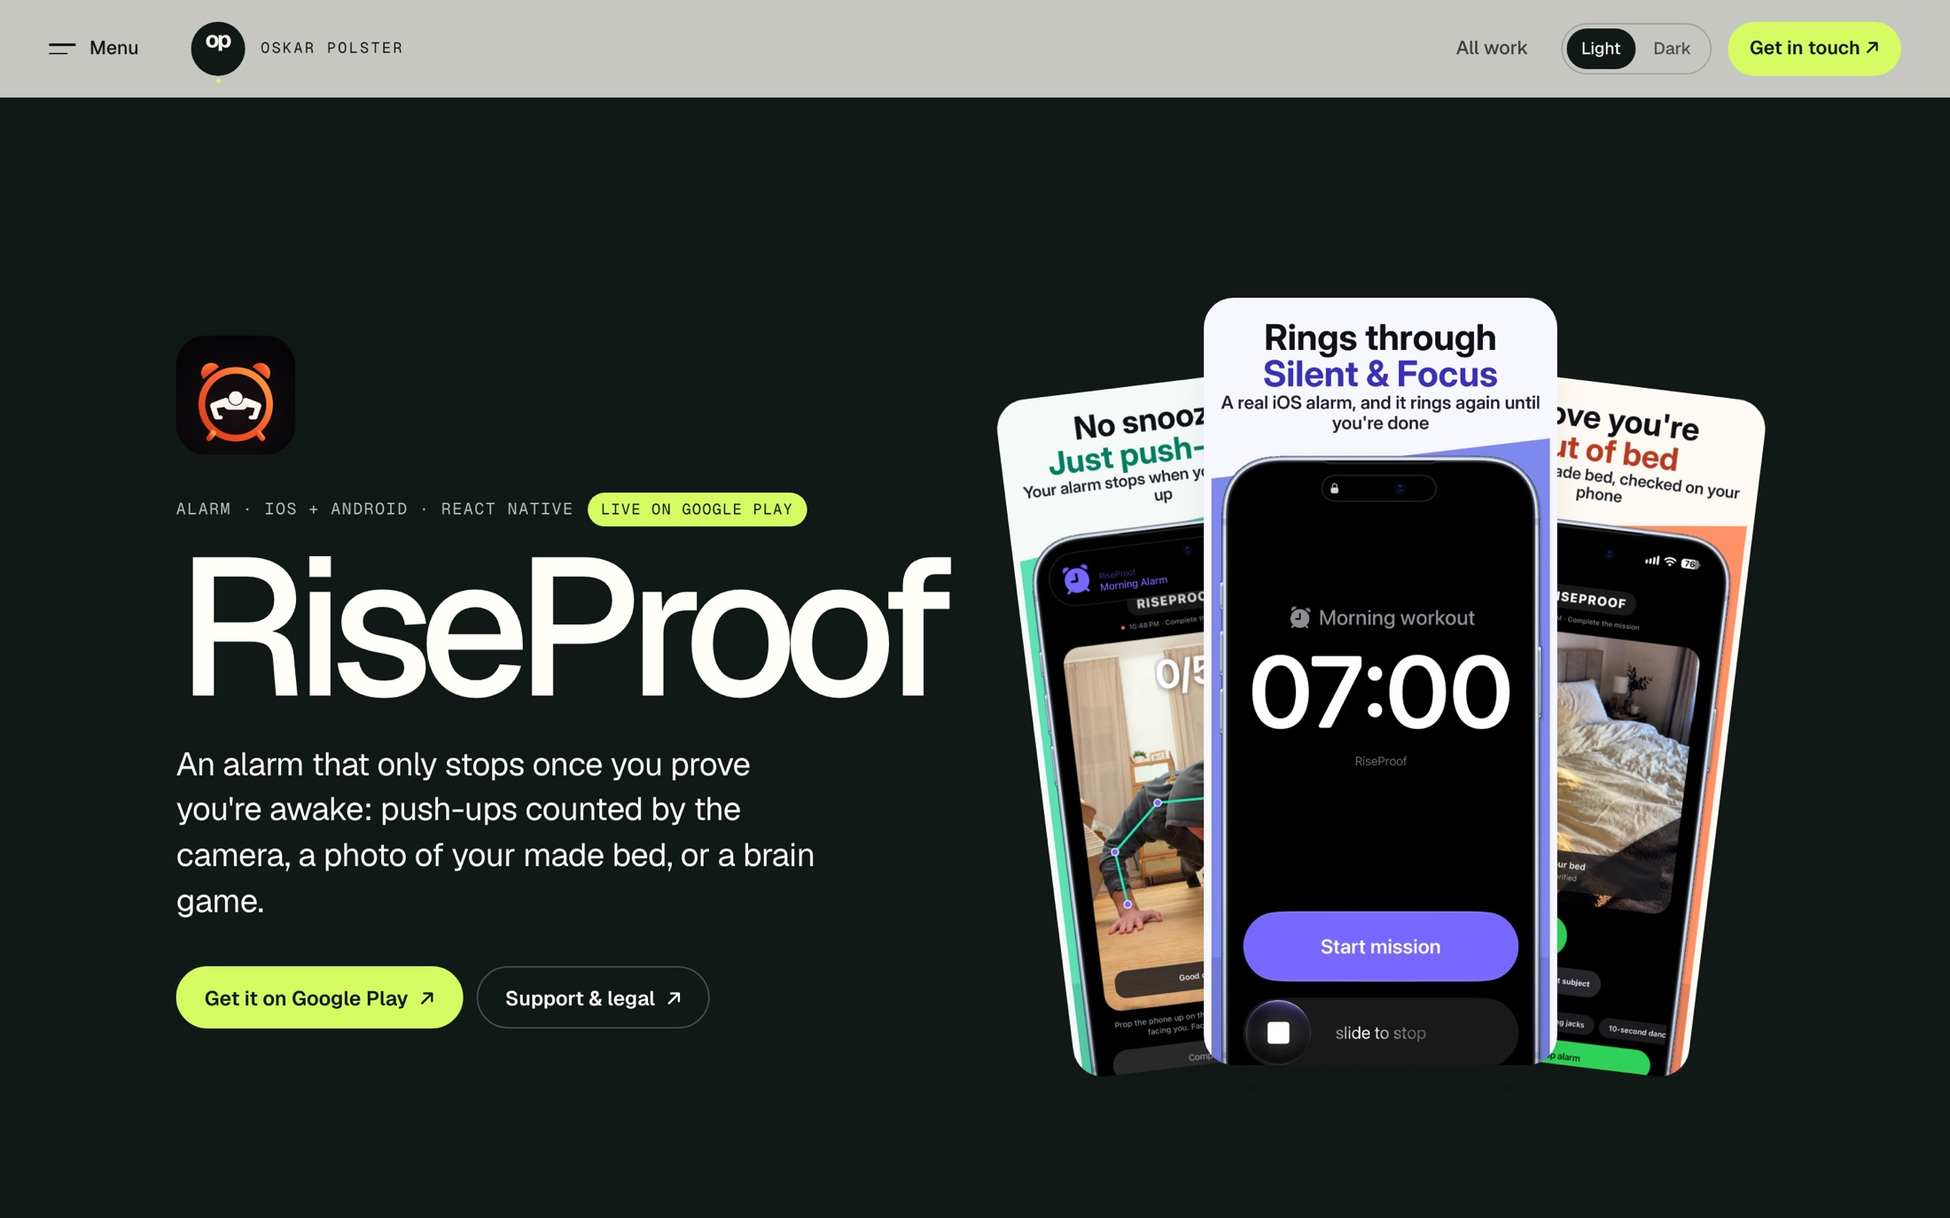
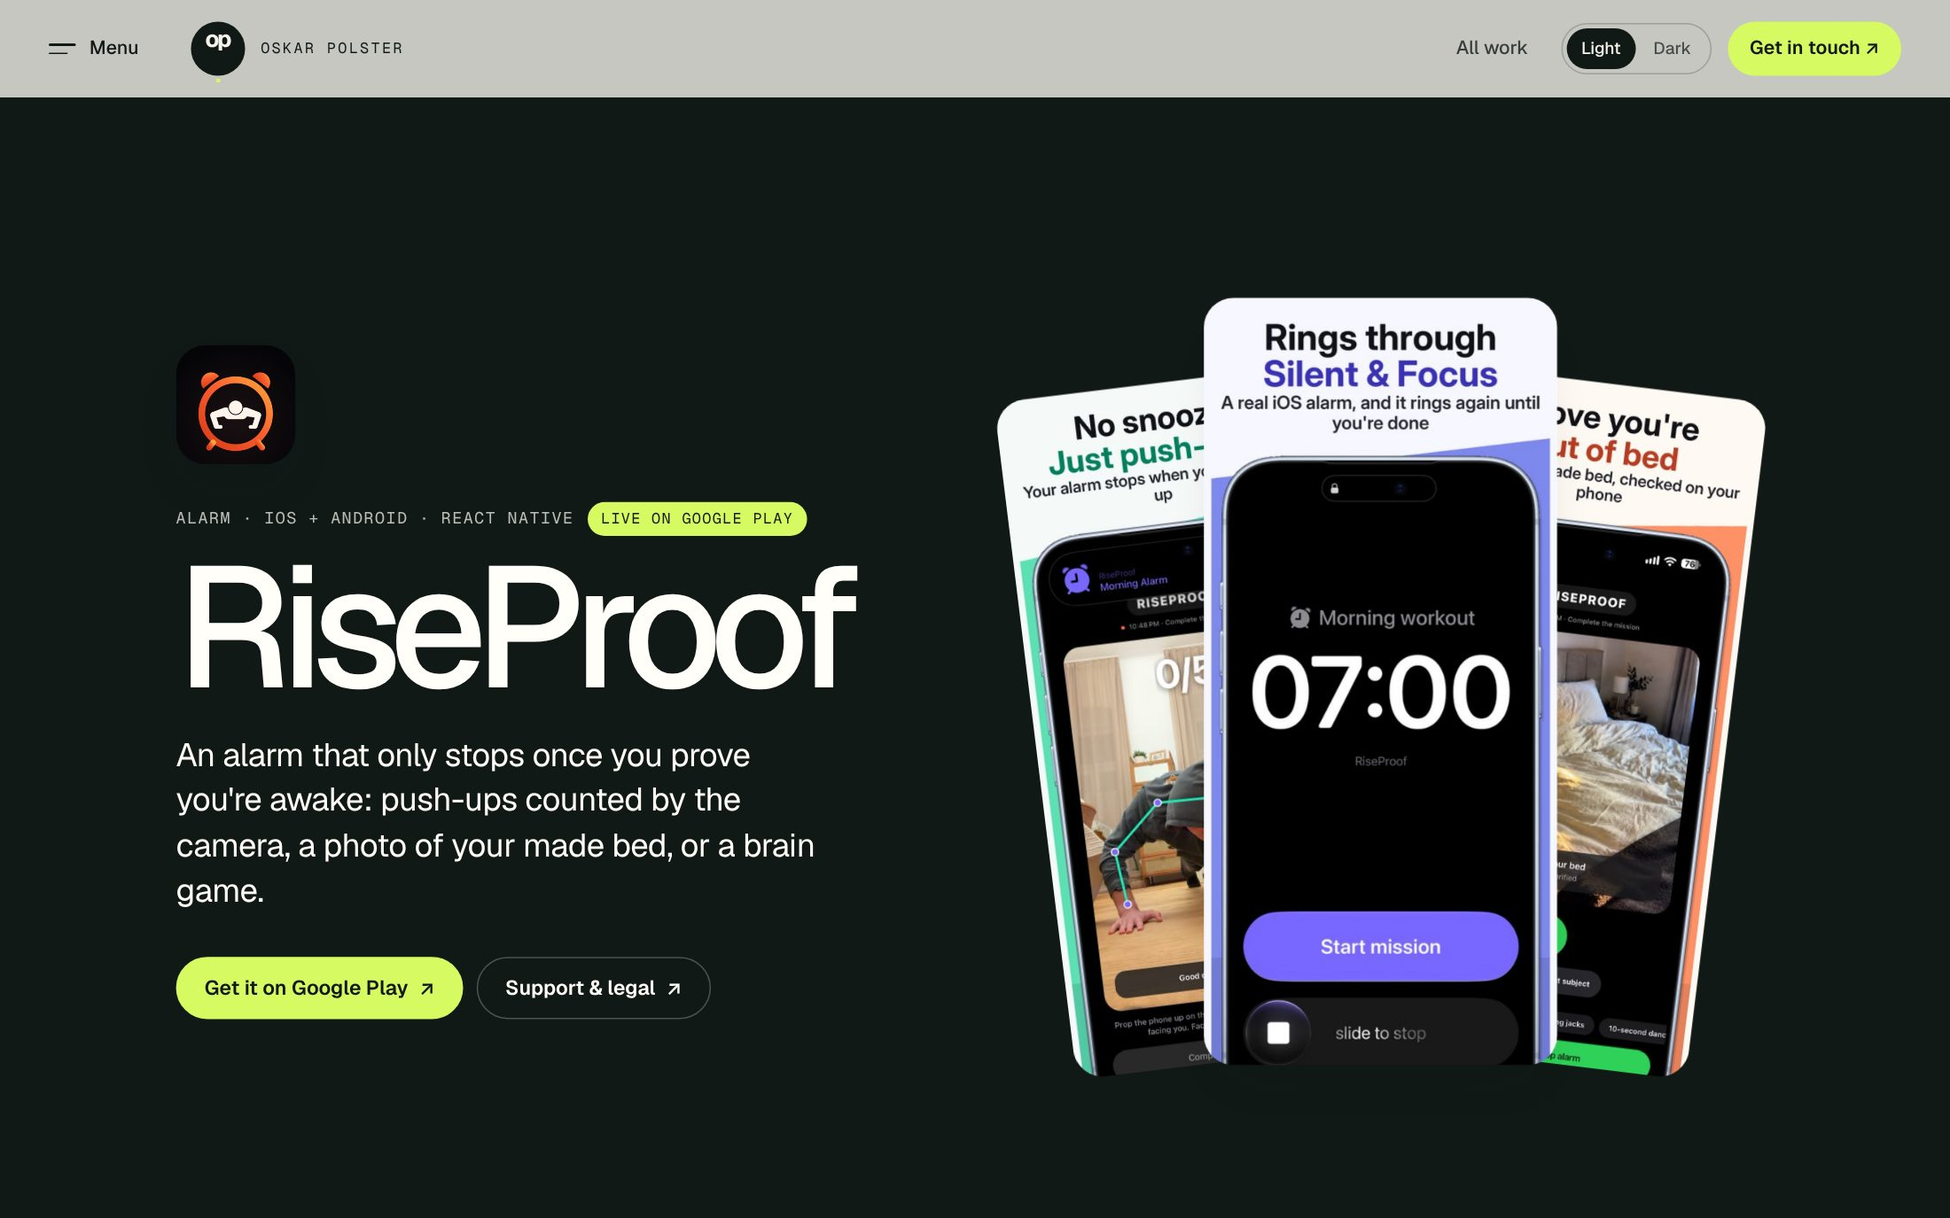
Portfolio review fixes: theme images, long titles, contact copy, links
- Light/Dark images: `.pf img` and `.ar-img` (display: block) outranked
  `.pf-dark-only`, so in light mode the dark screenshots loaded too and
  showed on top or underneath (Stub big panel, AppReleaser "More views",
  every AppReleaser step on phones, the page previews on the main page)
- "Video Background" and "RiseProof" no longer run under the phones in
  the product hero (font size capped by the text column); the page
  previews for both are re-rendered from the fixed pages
- Product pages: contact says "Hiring, or working on a mobile app?" and
  "Open to a full-time role or freelance work", as on the main page,
  with a GitHub link next to the email
- Footer "All projects" pointed to /#projects, which does not exist;
  now /#apps (main page and Impressum)

Claude-Session: https://claude.ai/code/session_01X9fD3tWDHSxZ5SvA4QzrYH

diff --git a/developer/riseproof/index.html b/developer/riseproof/index.html
@@ -9,8 +9,8 @@
   <link rel="preconnect" href="https://fonts.gstatic.com" crossorigin>
   <link href="https://fonts.googleapis.com/css2?family=Geist:wght@300..700&family=Geist+Mono:wght@400;500&family=Newsreader:ital,opsz,wght@1,6..72,300..500&display=swap" rel="stylesheet">
   <link rel="stylesheet" href="/styles.css">
-  <link rel="stylesheet" href="/developer/portfolio.css?v=19">
-  <link rel="stylesheet" href="/developer/product.css?v=19">
+  <link rel="stylesheet" href="/developer/portfolio.css?v=20">
+  <link rel="stylesheet" href="/developer/product.css?v=20">
   <script>(function(){var t=null;try{t=localStorage.getItem('pf-theme')}catch(e){}var q=location.search.match(/theme=(light|dark)/);if(q)t=q[1];if(t==='light'||t==='dark')document.documentElement.dataset.theme=t;})();</script>
   <script data-goatcounter="https://oskarpolster.goatcounter.com/count" async src="https://gc.zgo.at/count.js"></script>   <!-- cookieless visitor stats -->
   <link rel="icon" href="/icon-32.png" sizes="32x32" type="image/png">
@@ -40,7 +40,7 @@
         <div class="pp-hero-text">
           <img class="pp-icon" src="/developer/shots/icons/riseproof.png" alt="" width="96" height="96">
           <p class="chapter-kind">Alarm · iOS + Android · React Native <span class="live">Live on Google Play</span></p>
-          <h1>RiseProof</h1>
+          <h1 class="pp-h1-fit">RiseProof</h1>
           <p class="pp-lede">An alarm that only stops once you prove you&#x27;re awake: push-ups counted by the camera, a photo of your made bed, or a brain game.</p>
           <div class="pp-actions"><a class="pp-btn pp-btn-solid" href="https://play.google.com/store/apps/details?id=com.oskarpolster.riseproof" rel="noopener">Get it on Google Play <span aria-hidden="true">↗</span></a><a class="pp-btn" href="/riseproof/">Support &amp; legal <span aria-hidden="true">↗</span></a></div>
         </div>
@@ -95,9 +95,10 @@
 
     <section class="contact" id="contact" aria-labelledby="contact-title">
       <div class="contact-inner site-container">
-        <h2 id="contact-title">Working on a mobile app?</h2>
-        <p>I'm open to freelance work in React Native and native iOS.</p>
+        <h2 id="contact-title">Hiring, or working on a mobile app?</h2>
+        <p>Open to a full-time role or freelance work in React Native and native iOS.</p>
         <a class="contact-mail" href="mailto:oskarpolster.business@gmail.com">oskarpolster.business@gmail.com <span aria-hidden="true">↗</span></a>
+        <a class="contact-alt" href="https://github.com/oskar14156" rel="me noopener">GitHub <span aria-hidden="true">↗</span></a>
       </div>
     </section>
   </main>

diff --git a/developer/vbg/index.html b/developer/vbg/index.html
@@ -9,8 +9,8 @@
   <link rel="preconnect" href="https://fonts.gstatic.com" crossorigin>
   <link href="https://fonts.googleapis.com/css2?family=Geist:wght@300..700&family=Geist+Mono:wght@400;500&family=Newsreader:ital,opsz,wght@1,6..72,300..500&display=swap" rel="stylesheet">
   <link rel="stylesheet" href="/styles.css">
-  <link rel="stylesheet" href="/developer/portfolio.css?v=19">
-  <link rel="stylesheet" href="/developer/product.css?v=19">
+  <link rel="stylesheet" href="/developer/portfolio.css?v=20">
+  <link rel="stylesheet" href="/developer/product.css?v=20">
   <script>(function(){var t=null;try{t=localStorage.getItem('pf-theme')}catch(e){}var q=location.search.match(/theme=(light|dark)/);if(q)t=q[1];if(t==='light'||t==='dark')document.documentElement.dataset.theme=t;})();</script>
   <script data-goatcounter="https://oskarpolster.goatcounter.com/count" async src="https://gc.zgo.at/count.js"></script>   <!-- cookieless visitor stats -->
   <link rel="icon" href="/icon-32.png" sizes="32x32" type="image/png">
@@ -40,7 +40,7 @@
         <div class="pp-hero-text">
           <img class="pp-icon" src="/developer/shots/icons/vbg.png" alt="" width="96" height="96">
           <p class="chapter-kind">Video · iOS + Android · React Native <span class="live">Live on Google Play</span></p>
-          <h1>Video Background Remover</h1>
+          <h1 class="pp-h1-long">Video Background Remover</h1>
           <p class="pp-lede">Removes the background from a whole video on the phone, with no upload.</p>
           <div class="pp-actions"><a class="pp-btn pp-btn-solid" href="https://play.google.com/store/apps/details?id=com.oskarpolster.aivideobgremove" rel="noopener">Get it on Google Play <span aria-hidden="true">↗</span></a><a class="pp-btn" href="/ai-video-background-remover/">Support &amp; legal <span aria-hidden="true">↗</span></a></div>
         </div>
@@ -84,9 +84,10 @@
 
     <section class="contact" id="contact" aria-labelledby="contact-title">
       <div class="contact-inner site-container">
-        <h2 id="contact-title">Working on a mobile app?</h2>
-        <p>I'm open to freelance work in React Native and native iOS.</p>
+        <h2 id="contact-title">Hiring, or working on a mobile app?</h2>
+        <p>Open to a full-time role or freelance work in React Native and native iOS.</p>
         <a class="contact-mail" href="mailto:oskarpolster.business@gmail.com">oskarpolster.business@gmail.com <span aria-hidden="true">↗</span></a>
+        <a class="contact-alt" href="https://github.com/oskar14156" rel="me noopener">GitHub <span aria-hidden="true">↗</span></a>
       </div>
     </section>
   </main>

diff --git a/developer/novus/index.html b/developer/novus/index.html
@@ -9,8 +9,8 @@
   <link rel="preconnect" href="https://fonts.gstatic.com" crossorigin>
   <link href="https://fonts.googleapis.com/css2?family=Geist:wght@300..700&family=Geist+Mono:wght@400;500&family=Newsreader:ital,opsz,wght@1,6..72,300..500&display=swap" rel="stylesheet">
   <link rel="stylesheet" href="/styles.css">
-  <link rel="stylesheet" href="/developer/portfolio.css?v=19">
-  <link rel="stylesheet" href="/developer/product.css?v=19">
+  <link rel="stylesheet" href="/developer/portfolio.css?v=20">
+  <link rel="stylesheet" href="/developer/product.css?v=20">
   <script>(function(){var t=null;try{t=localStorage.getItem('pf-theme')}catch(e){}var q=location.search.match(/theme=(light|dark)/);if(q)t=q[1];if(t==='light'||t==='dark')document.documentElement.dataset.theme=t;})();</script>
   <script data-goatcounter="https://oskarpolster.goatcounter.com/count" async src="https://gc.zgo.at/count.js"></script>   <!-- cookieless visitor stats -->
   <link rel="icon" href="/icon-32.png" sizes="32x32" type="image/png">
@@ -110,9 +110,10 @@
 
     <section class="contact" id="contact" aria-labelledby="contact-title">
       <div class="contact-inner site-container">
-        <h2 id="contact-title">Working on a mobile app?</h2>
-        <p>I'm open to freelance work in React Native and native iOS.</p>
+        <h2 id="contact-title">Hiring, or working on a mobile app?</h2>
+        <p>Open to a full-time role or freelance work in React Native and native iOS.</p>
         <a class="contact-mail" href="mailto:oskarpolster.business@gmail.com">oskarpolster.business@gmail.com <span aria-hidden="true">↗</span></a>
+        <a class="contact-alt" href="https://github.com/oskar14156" rel="me noopener">GitHub <span aria-hidden="true">↗</span></a>
       </div>
     </section>
   </main>

diff --git a/developer/voyeva/index.html b/developer/voyeva/index.html
@@ -9,8 +9,8 @@
   <link rel="preconnect" href="https://fonts.gstatic.com" crossorigin>
   <link href="https://fonts.googleapis.com/css2?family=Geist:wght@300..700&family=Geist+Mono:wght@400;500&family=Newsreader:ital,opsz,wght@1,6..72,300..500&display=swap" rel="stylesheet">
   <link rel="stylesheet" href="/styles.css">
-  <link rel="stylesheet" href="/developer/portfolio.css?v=19">
-  <link rel="stylesheet" href="/developer/product.css?v=19">
+  <link rel="stylesheet" href="/developer/portfolio.css?v=20">
+  <link rel="stylesheet" href="/developer/product.css?v=20">
   <script>(function(){var t=null;try{t=localStorage.getItem('pf-theme')}catch(e){}var q=location.search.match(/theme=(light|dark)/);if(q)t=q[1];if(t==='light'||t==='dark')document.documentElement.dataset.theme=t;})();</script>
   <script data-goatcounter="https://oskarpolster.goatcounter.com/count" async src="https://gc.zgo.at/count.js"></script>   <!-- cookieless visitor stats -->
   <link rel="icon" href="/icon-32.png" sizes="32x32" type="image/png">
@@ -110,9 +110,10 @@
 
     <section class="contact" id="contact" aria-labelledby="contact-title">
       <div class="contact-inner site-container">
-        <h2 id="contact-title">Working on a mobile app?</h2>
-        <p>I'm open to freelance work in React Native and native iOS.</p>
+        <h2 id="contact-title">Hiring, or working on a mobile app?</h2>
+        <p>Open to a full-time role or freelance work in React Native and native iOS.</p>
         <a class="contact-mail" href="mailto:oskarpolster.business@gmail.com">oskarpolster.business@gmail.com <span aria-hidden="true">↗</span></a>
+        <a class="contact-alt" href="https://github.com/oskar14156" rel="me noopener">GitHub <span aria-hidden="true">↗</span></a>
       </div>
     </section>
   </main>

diff --git a/developer/stub/index.html b/developer/stub/index.html
@@ -9,8 +9,8 @@
   <link rel="preconnect" href="https://fonts.gstatic.com" crossorigin>
   <link href="https://fonts.googleapis.com/css2?family=Geist:wght@300..700&family=Geist+Mono:wght@400;500&family=Newsreader:ital,opsz,wght@1,6..72,300..500&display=swap" rel="stylesheet">
   <link rel="stylesheet" href="/styles.css">
-  <link rel="stylesheet" href="/developer/portfolio.css?v=19">
-  <link rel="stylesheet" href="/developer/product.css?v=19">
+  <link rel="stylesheet" href="/developer/portfolio.css?v=20">
+  <link rel="stylesheet" href="/developer/product.css?v=20">
   <script>(function(){var t=null;try{t=localStorage.getItem('pf-theme')}catch(e){}var q=location.search.match(/theme=(light|dark)/);if(q)t=q[1];if(t==='light'||t==='dark')document.documentElement.dataset.theme=t;})();</script>
   <script data-goatcounter="https://oskarpolster.goatcounter.com/count" async src="https://gc.zgo.at/count.js"></script>   <!-- cookieless visitor stats -->
   <link rel="icon" href="/icon-32.png" sizes="32x32" type="image/png">
@@ -99,9 +99,10 @@
 
     <section class="contact" id="contact" aria-labelledby="contact-title">
       <div class="contact-inner site-container">
-        <h2 id="contact-title">Working on a mobile app?</h2>
-        <p>I'm open to freelance work in React Native and native iOS.</p>
+        <h2 id="contact-title">Hiring, or working on a mobile app?</h2>
+        <p>Open to a full-time role or freelance work in React Native and native iOS.</p>
         <a class="contact-mail" href="mailto:oskarpolster.business@gmail.com">oskarpolster.business@gmail.com <span aria-hidden="true">↗</span></a>
+        <a class="contact-alt" href="https://github.com/oskar14156" rel="me noopener">GitHub <span aria-hidden="true">↗</span></a>
       </div>
     </section>
   </main>

diff --git a/developer/unscroll/index.html b/developer/unscroll/index.html
@@ -9,8 +9,8 @@
   <link rel="preconnect" href="https://fonts.gstatic.com" crossorigin>
   <link href="https://fonts.googleapis.com/css2?family=Geist:wght@300..700&family=Geist+Mono:wght@400;500&family=Newsreader:ital,opsz,wght@1,6..72,300..500&display=swap" rel="stylesheet">
   <link rel="stylesheet" href="/styles.css">
-  <link rel="stylesheet" href="/developer/portfolio.css?v=19">
-  <link rel="stylesheet" href="/developer/product.css?v=19">
+  <link rel="stylesheet" href="/developer/portfolio.css?v=20">
+  <link rel="stylesheet" href="/developer/product.css?v=20">
   <script>(function(){var t=null;try{t=localStorage.getItem('pf-theme')}catch(e){}var q=location.search.match(/theme=(light|dark)/);if(q)t=q[1];if(t==='light'||t==='dark')document.documentElement.dataset.theme=t;})();</script>
   <script data-goatcounter="https://oskarpolster.goatcounter.com/count" async src="https://gc.zgo.at/count.js"></script>   <!-- cookieless visitor stats -->
   <link rel="icon" href="/icon-32.png" sizes="32x32" type="image/png">
@@ -88,9 +88,10 @@
 
     <section class="contact" id="contact" aria-labelledby="contact-title">
       <div class="contact-inner site-container">
-        <h2 id="contact-title">Working on a mobile app?</h2>
-        <p>I'm open to freelance work in React Native and native iOS.</p>
+        <h2 id="contact-title">Hiring, or working on a mobile app?</h2>
+        <p>Open to a full-time role or freelance work in React Native and native iOS.</p>
         <a class="contact-mail" href="mailto:oskarpolster.business@gmail.com">oskarpolster.business@gmail.com <span aria-hidden="true">↗</span></a>
+        <a class="contact-alt" href="https://github.com/oskar14156" rel="me noopener">GitHub <span aria-hidden="true">↗</span></a>
       </div>
     </section>
   </main>

diff --git a/developer/appreleaser/index.html b/developer/appreleaser/index.html
@@ -9,8 +9,8 @@
   <link rel="preconnect" href="https://fonts.gstatic.com" crossorigin>
   <link href="https://fonts.googleapis.com/css2?family=Geist:wght@300..700&family=Geist+Mono:wght@400;500&family=Newsreader:ital,opsz,wght@1,6..72,300..500&display=swap" rel="stylesheet">
   <link rel="stylesheet" href="/styles.css">
-  <link rel="stylesheet" href="/developer/portfolio.css?v=18">
-  <link rel="stylesheet" href="/developer/product.css?v=16">
+  <link rel="stylesheet" href="/developer/portfolio.css?v=20">
+  <link rel="stylesheet" href="/developer/product.css?v=20">
   <link rel="stylesheet" href="/developer/appreleaser/ar.css?v=18">
   <script>(function(){var t=null;try{t=localStorage.getItem('pf-theme')}catch(e){}var q=location.search.match(/theme=(light|dark)/);if(q)t=q[1];if(t==='light'||t==='dark')document.documentElement.dataset.theme=t;})();</script>
   <script data-goatcounter="https://oskarpolster.goatcounter.com/count" async src="https://gc.zgo.at/count.js"></script>   <!-- cookieless visitor stats -->
@@ -149,9 +149,10 @@
 
     <section class="contact" id="contact" aria-labelledby="contact-title">
       <div class="contact-inner site-container">
-        <h2 id="contact-title">Working on a mobile app?</h2>
-        <p>I'm open to freelance work in React Native and native iOS.</p>
+        <h2 id="contact-title">Hiring, or working on a mobile app?</h2>
+        <p>Open to a full-time role or freelance work in React Native and native iOS.</p>
         <a class="contact-mail" href="mailto:oskarpolster.business@gmail.com">oskarpolster.business@gmail.com <span aria-hidden="true">↗</span></a>
+        <a class="contact-alt" href="https://github.com/oskar14156" rel="me noopener">GitHub <span aria-hidden="true">↗</span></a>
       </div>
     </section>
   </main>

diff --git a/developer/index.html b/developer/index.html
@@ -19,7 +19,7 @@
   <link rel="preconnect" href="https://fonts.gstatic.com" crossorigin>
   <link href="https://fonts.googleapis.com/css2?family=Geist:wght@300..700&family=Geist+Mono:wght@400;500&family=Newsreader:ital,opsz,wght@1,6..72,300..500&display=swap" rel="stylesheet">
   <link rel="stylesheet" href="/styles.css">
-  <link rel="stylesheet" href="/developer/portfolio.css?v=72">
+  <link rel="stylesheet" href="/developer/portfolio.css?v=73">
   <script>
     // Theme before first paint: saved pick, else the system setting.
     (function () {
@@ -615,7 +615,7 @@
     <div class="site-container footer-inner">
       <a class="footer-brand" href="/">OSKAR POLSTER<span>© 2026</span></a>
       <p>Official developer website.</p>
-      <nav aria-label="Footer navigation"><a href="/#projects">All projects</a><a href="/">Home</a><a href="#contact">Contact</a><a href="/impressum/">Impressum</a><a href="/impressum/#datenschutz">Datenschutz</a></nav>
+      <nav aria-label="Footer navigation"><a href="/#apps">All projects</a><a href="/">Home</a><a href="#contact">Contact</a><a href="/impressum/">Impressum</a><a href="/impressum/#datenschutz">Datenschutz</a></nav>
     </div>
   </footer>
 

diff --git a/developer/product.css b/developer/product.css
@@ -6,6 +6,10 @@
 .pp-hero-grid { display: grid; grid-template-columns: minmax(0, 1fr) minmax(0, 1.1fr); gap: clamp(32px, 5vw, 80px); align-items: center; }
 .pp-icon { width: 88px; height: 88px; border-radius: 22px; box-shadow: 0 18px 40px -16px var(--shadow); margin-bottom: 28px; }
 .pp-hero h1 { margin-top: 14px; font-size: clamp(64px, 10vw, 156px); line-height: .84; letter-spacing: -.07em; font-weight: 500; }
+/* The name never runs under the phones: capped by the width of its own column. */
+.pp-hero-text { container-type: inline-size; }
+.pp-hero h1.pp-h1-fit { font-size: min(clamp(64px, 10vw, 156px), 24cqi); }
+.pp-hero h1.pp-h1-long { font-size: min(clamp(52px, 8vw, 128px), 19.5cqi); }
 .pp-lede { margin-top: 24px !important; max-width: 30ch; font-size: clamp(19px, 1.8vw, 24px); line-height: 1.4; letter-spacing: -.015em; }
 .pp-actions { display: flex; flex-wrap: wrap; gap: 10px; margin-top: 32px; }
 .pp-btn { display: inline-flex; align-items: center; gap: 8px; min-height: 46px; padding: 0 20px; border-radius: 999px; font-size: 15px; font-weight: 600; text-decoration: none; color: inherit; border: 1px solid color-mix(in srgb, currentColor 25%, transparent); }

diff --git a/impressum/index.html b/impressum/index.html
@@ -20,7 +20,7 @@
         <span class="brand-name">OSKAR<br>POLSTER</span>
       </a>
       <nav class="primary-nav" aria-label="Main navigation">
-        <a class="nav-link" href="/#projects">Projects</a>
+        <a class="nav-link" href="/#apps">Projects</a>
         <a class="nav-link" href="/developer/">Developer</a>
         <a class="nav-contact" href="mailto:oskarpolster.business@gmail.com">Say hello <span aria-hidden="true">↗</span></a>
       </nav>
@@ -84,7 +84,7 @@
     <div class="site-container footer-inner">
       <a class="footer-brand" href="/">OSKAR POLSTER<span>© 2026</span></a>
       <p>Official developer website.</p>
-      <nav aria-label="Footer navigation"><a href="/#projects">Projects</a><a href="/">Home</a><a href="/impressum/" aria-current="page">Impressum</a></nav>
+      <nav aria-label="Footer navigation"><a href="/#apps">Projects</a><a href="/">Home</a><a href="/impressum/" aria-current="page">Impressum</a></nav>
     </div>
   </footer>
 </body>

diff --git a/developer/portfolio.css b/developer/portfolio.css
@@ -219,7 +219,8 @@ html:not(.has-ink) .intro-content { mix-blend-mode: normal; }
 .pf-device .pf-frame { position: absolute; inset: 0; width: 100%; height: 100%; pointer-events: none; }
 .pf-store { display: block; width: 100%; height: auto; aspect-ratio: 1320 / 2868; border-radius: 22px; box-shadow: 0 22px 40px -26px var(--shadow); }
 .pf-gallery figcaption { margin-top: 14px; padding-inline: 6px; font-size: 13.5px; line-height: 1.4; font-weight: 600; color: var(--text-soft); }
-.pf-dark-only { display: none; }
+/* :root raises this above `.pf img` and `.ar-img` (both display: block), which used to show both versions. */
+:root .pf-dark-only { display: none; }
 @media (prefers-color-scheme: dark) {
   :root:not([data-theme="light"]) .pf-dark-only { display: block; }
   :root:not([data-theme="light"]) .pf-light-only { display: none; }
